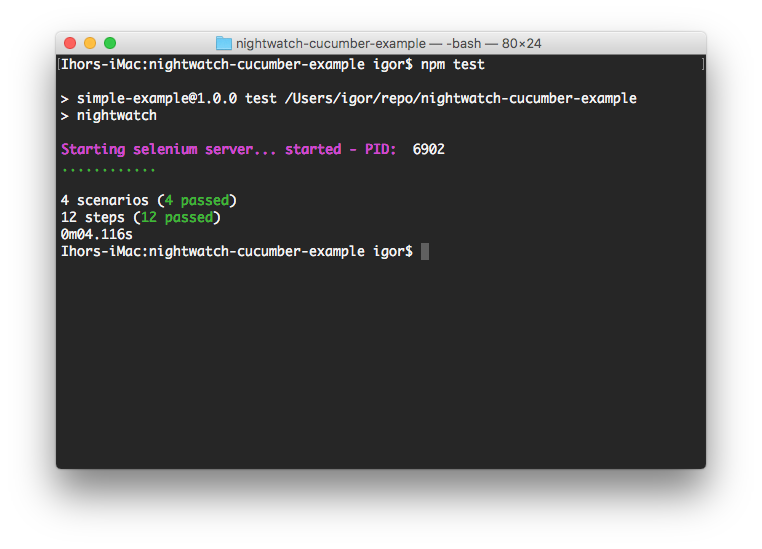
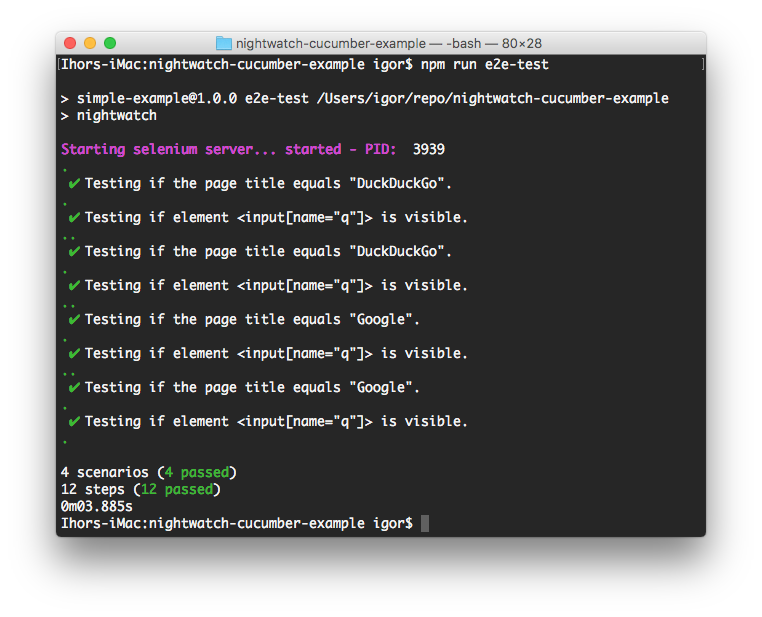
feat: add Nightwatch passed assertion output. Fixes #284

diff --git a/lib/nightwatch-api.js b/lib/nightwatch-api.js
@@ -10,6 +10,7 @@ const Nightwatch = {
   ClientRunner: require('nightwatch/lib/runner/cli/clirunner'),
   ChildProcess: require('nightwatch/lib/runner/cli/child-process'),
   Utils: require('nightwatch/lib/util/utils'),
+  Logger: require('nightwatch/lib/util/logger'),
   Protocol: require('nightwatch/lib/api/protocol'),
   ErrorHandler: require('nightwatch/lib/runner/cli/errorhandler'),
   Assertion: require('nightwatch/lib/core/assertion'),
@@ -34,6 +35,9 @@ module.exports = class NightwatchApi {
     this.promisifyAssertions()
     this.promisifyExpect(api)
     this.promisifyPageObjects(api)
+    if (this.options.nightwatchOutput) {
+      this.addAssertionLogger()
+    }
     this.protocol = Nightwatch.Protocol(this.client.get())
   }
 
@@ -223,6 +227,21 @@ module.exports = class NightwatchApi {
     this.addHookTests(revert)
   }
 
+  addAssertionLogger () {
+    const originalAssertion = this.client.get().assertion
+    this.__originalAssertion = originalAssertion
+    this.client.get().assertion = function (passed, receivedValue, expectedValue, message, abortOnFailure, originalStackTrace) {
+      if (passed) {
+        console.log(`\n ${Nightwatch.Logger.colors.green(Nightwatch.Utils.symbols.ok)} ${message}`)
+      }
+      return originalAssertion.apply(this, arguments)
+    }
+  }
+
+  removeAssertionLogger () {
+    this.client.get().assertion = this.__originalAssertion
+  }
+
   overrideOriginalStartTestWorkers () {
     const originalStartTestWorkers = Nightwatch.ClientRunner.prototype.startTestWorkers
 
@@ -333,6 +352,7 @@ module.exports = class NightwatchApi {
 
       this.options = originalOptions
       this.additionalOpts = originalAdditionalOpts
+      this.removeAssertionLogger()
 
       if (!originalAdditionalOpts.src_folders || !originalAdditionalOpts.src_folders.length || error || !executionSuccess) {
         return this.doneCb(error || !executionSuccess, {})

diff --git a/lib/index.js b/lib/index.js
@@ -6,7 +6,8 @@ module.exports = function (providedOptions) {
       '--require', 'features/step_definitions',
       '--format', 'json:reports/cucumber.json',
       'features'
-    ]
+    ],
+    nightwatchOutput: true
   }, providedOptions)
 
   const Runner = require('./runner')

diff --git a/README.md b/README.md
@@ -1,4 +1,4 @@
-# nightwatch-cucumber [![nightwatch-cucumber](http://mucsi96.github.io/nightwatch-cucumber/res/img/nightwatch-cucumber-logo.png)](https://github.com/mucsi96/nightwatch-cucumber)
+# nightwatch-cucumber [![nightwatch-cucumber](http://mucsi96.github.io/nightwatch-cucumber/res/img/nightwatch-cucumber-logo.png)](https://github.com/mucsi96/nightwatch-cucumber)[http://mucsi96.github.io/nightwatch-cucumber]
 
 [![npm version](https://badge.fury.io/js/nightwatch-cucumber.svg)](https://badge.fury.io/js/nightwatch-cucumber)
 [![Build Status](https://travis-ci.org/mucsi96/nightwatch-cucumber.svg?branch=master)](https://travis-ci.org/mucsi96/nightwatch-cucumber)

diff --git a/site/data/configuration/nightwatch-output.md b/site/data/configuration/nightwatch-output.md
@@ -1,0 +1,16 @@
+## Nightwatch output
+
+By default every passed Nightwatch assertion fill log a message on output. To disable that set `nightwatchOutput: false` in configuration object.
+
+```javascript
+// nightwatch.conf.js
+
+require('nightwatch-cucumber')({
+  ...
+  nightwatchOutput: false
+})
+
+module.exports = {
+  ...
+}
+```

diff --git a/site/data/index.md b/site/data/index.md
@@ -19,6 +19,7 @@
 
 # Configuration
 
+@import './configuration/nightwatch-output.md'
 @import './configuration/passing-cucumber-cli-options.md'
 @import './configuration/timeouts.md'
 @import './configuration/hooks.md'

diff --git a/site/data/configuration/passing-cucumber-cli-options.md b/site/data/configuration/passing-cucumber-cli-options.md
@@ -26,6 +26,7 @@ The default configuration object is.
     '--require', 'features/step_definitions',
     '--format', 'json:reports/cucumber.json',
     'features'
-  ]
+  ],
+  nightwatchOutput: true
 }
 ```
